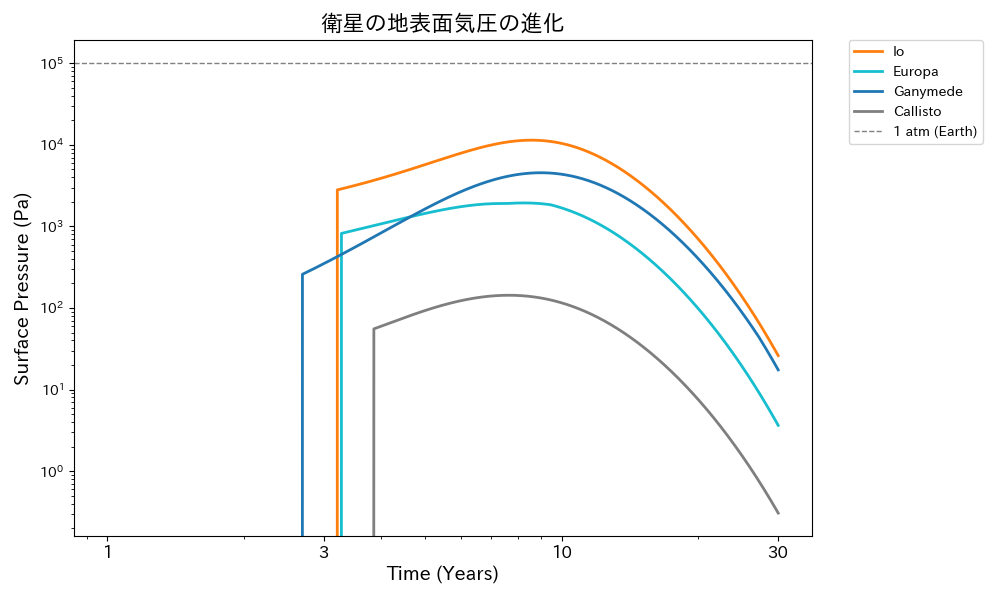
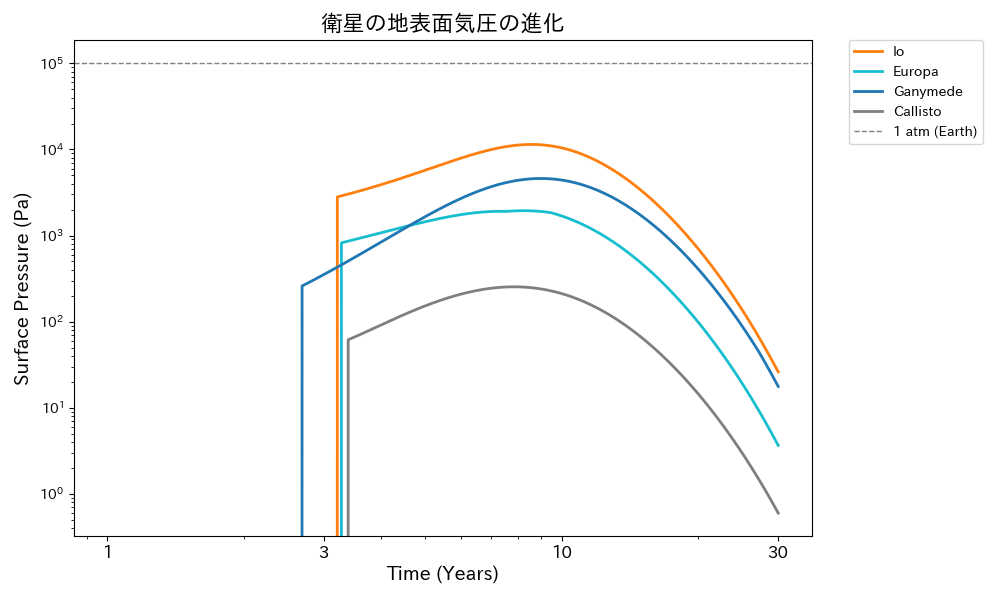
カリストの捕獲時間を1.7Myrにした

diff --git a/gallilean_central_flax.py b/gallilean_central_flax.py
@@ -598,7 +598,7 @@ satellites = [
     Satellite("Io",       1.00e6, 50.0 * R_J),
     Satellite("Europa",   1.25e6, 50.0 * R_J),
     Satellite("Ganymede", 1.50e6, 50.0 * R_J),
-    Satellite("Callisto", 2.00e6, 50.0 * R_J)
+    Satellite("Callisto", 1.70e6, 50.0 * R_J)
 ]
 
 # ==========================================
